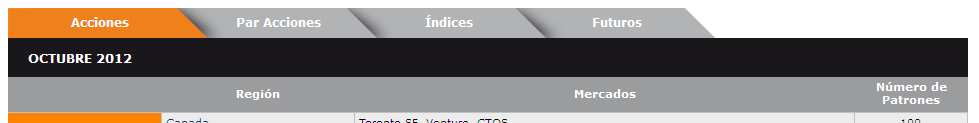
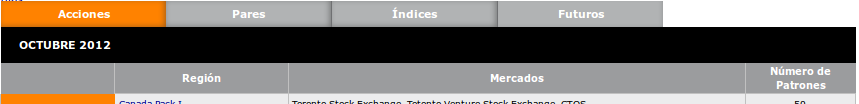
Page corrections: Purchase (Acceder Contenidos)

diff --git a/src/app/subscriptions_and_prices/purchase/purchase.tpl.html b/src/app/subscriptions_and_prices/purchase/purchase.tpl.html
@@ -11,7 +11,7 @@
     <p class="orange-title">Búsqueda de Contenidos</p>
 
     <p>
-        Cada mes se publican Packs de contenidos clasificados en agrupaciones: Acciones, Par Acciones, Índices y Futuros.
+        Cada mes se publican Packs de contenidos clasificados en agrupaciones: Acciones, Pares, Índices y Futuros.
         Si no sabe qué Pack necesita puede leer <a ui-sref="shopping_guide">Gu&iacute;a de Compras</a>.
     </p>
 
@@ -30,7 +30,7 @@
 
     <p>
         Al hacer clic sobre un Pack se muestra un avance del contenido de los Patrones o estrategias a cuya información
-        completa tendrá acceso como cliente. Por ejemplo en el grupo Acciones compañías de Canadá en septiembre 2012
+        completa tendrá acceso como cliente. Por ejemplo en el grupo Acciones compañías de Canadá Pack I en septiembre 2012,
         había la siguiente lista de estrategias con su respectivo resumen de contenidos:
     </p>
 
@@ -47,7 +47,7 @@
     <p class="orange-title">Proceso Compra con "Carro de Compra"</p>
     <p>
         Cuando se localiza un Pack de interés se pueden pre-seleccionar y añadir al carro de la compra mediante la
-        función “Add to Cart”. Se puede volver a Buscar nuevos Pack y añadir al Carro. Una vez seleccionados los Pack
+        función “Al carro”. Se puede volver a Buscar nuevos Packs y añadir al Carro. Una vez seleccionados los Packs,
         se procede al pago con los siguientes pasos:
     </p>
     <ol class="ordered-list-first-level list-left-first-level-no-padding">
@@ -55,7 +55,7 @@
             Registro -sólo si es nuevo cliente-.
             <ul class="public-list-first-level list-left-first-level-no-padding">
                 <li><p>
-                    Es simple tan solo es obligatorio el Nombre y País además de un email para acceder a la web.
+                    Es simple, tan solo es obligatorio el Nombre y País además de un email para acceder a la web.
                 </p></li>
             </ul>
         </li>
@@ -92,8 +92,8 @@
         <li>
             <p>
                 Una vez elegido el grupo y Mes se despliega una lista de <strong>Packs</strong> de contenidos que son los elementos
-                contratables. Al hacer clic sobre un Pack se despliega un avance de información de las estrategias. Así en el
-                grupo “Acciones”, de compañías de “Estados Unidos” durante “febrero 2014”  incluidas en el “Pack I”, se
+                contratables. Al hacer clic sobre un Pack se despliega un avance de información de las estrategias. Así, en el
+                grupo “Acciones”, de compañías de “Estados Unidos” durante “febrero 2014” incluidas en el “Pack I”, se
                 hubiera observado el siguiente resumen:
             </p>
             <p class="public-images">
@@ -154,7 +154,7 @@
 
     <p>
         El pago se puede realizar mediante Tarjeta de Crédito o PayPal. Market Observatory no conserva datos de Tarjetas
-        de Crédito, por lo cual para nuevas operaciones de compra o devolución se volverá a solicitar los datos.
+        de Crédito, por lo cual, para nuevas operaciones de compra o devolución se volverá a solicitar los datos.
     </p>
 
     <p class="public-images">
